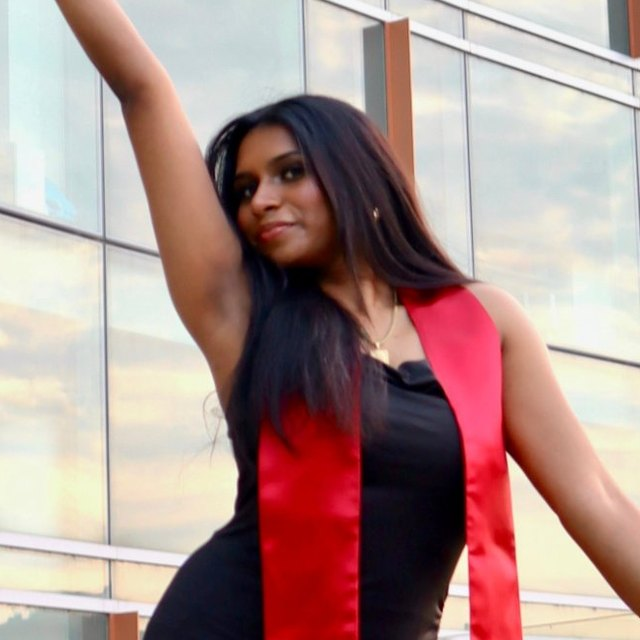
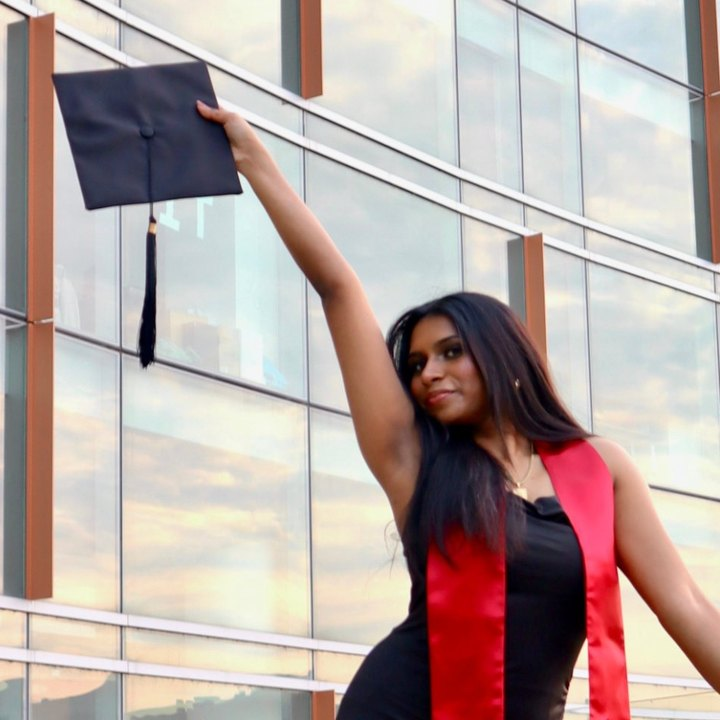
Recrop photo to include graduation cap

diff --git a/index.html b/index.html
@@ -89,7 +89,7 @@ h1 em { font-style: italic; color: transparent; background: linear-gradient(100d
 .moon-spot { flex: none; width: clamp(110px, 21vw, 280px); aspect-ratio: 1; border-radius: 50%; }
 html:not(.webgl-sky) .moon-spot { background: radial-gradient(circle at 60% 40%, #fff3f6, #f0c3d3 45%, #b98aa6 75%); box-shadow: 0 0 60px 10px rgba(255, 190, 215, .35); }
 .about-side { padding: 34px 32px; display: flex; flex-direction: column; gap: 28px; }
-.portrait { position: relative; flex: none; width: 210px; aspect-ratio: 1; margin: 8px auto 0; }
+.portrait { position: relative; flex: none; width: 240px; aspect-ratio: 1; margin: 8px auto 0; }
 .portrait::before { content: ""; position: absolute; inset: -22%; border-radius: 50%; background: radial-gradient(circle, rgba(255, 196, 150, .45) 0%, rgba(243, 139, 163, .18) 45%, transparent 70%); filter: blur(8px); animation: breathe 7s ease-in-out infinite; }
 .portrait .frame { position: absolute; inset: 0; border-radius: 50%; overflow: hidden; border: 1px solid rgba(255, 230, 210, .35); box-shadow: 0 0 0 10px rgba(255, 230, 210, .04), 0 30px 80px -20px rgba(0, 0, 0, .6); background: radial-gradient(circle at 35% 30%, #ffd9b8, #f29a8f 45%, #7b3d63 100%); display: grid; place-items: center; }
 .portrait img { width: 100%; height: 100%; object-fit: cover; display: block; filter: saturate(.92) contrast(1.02); }
